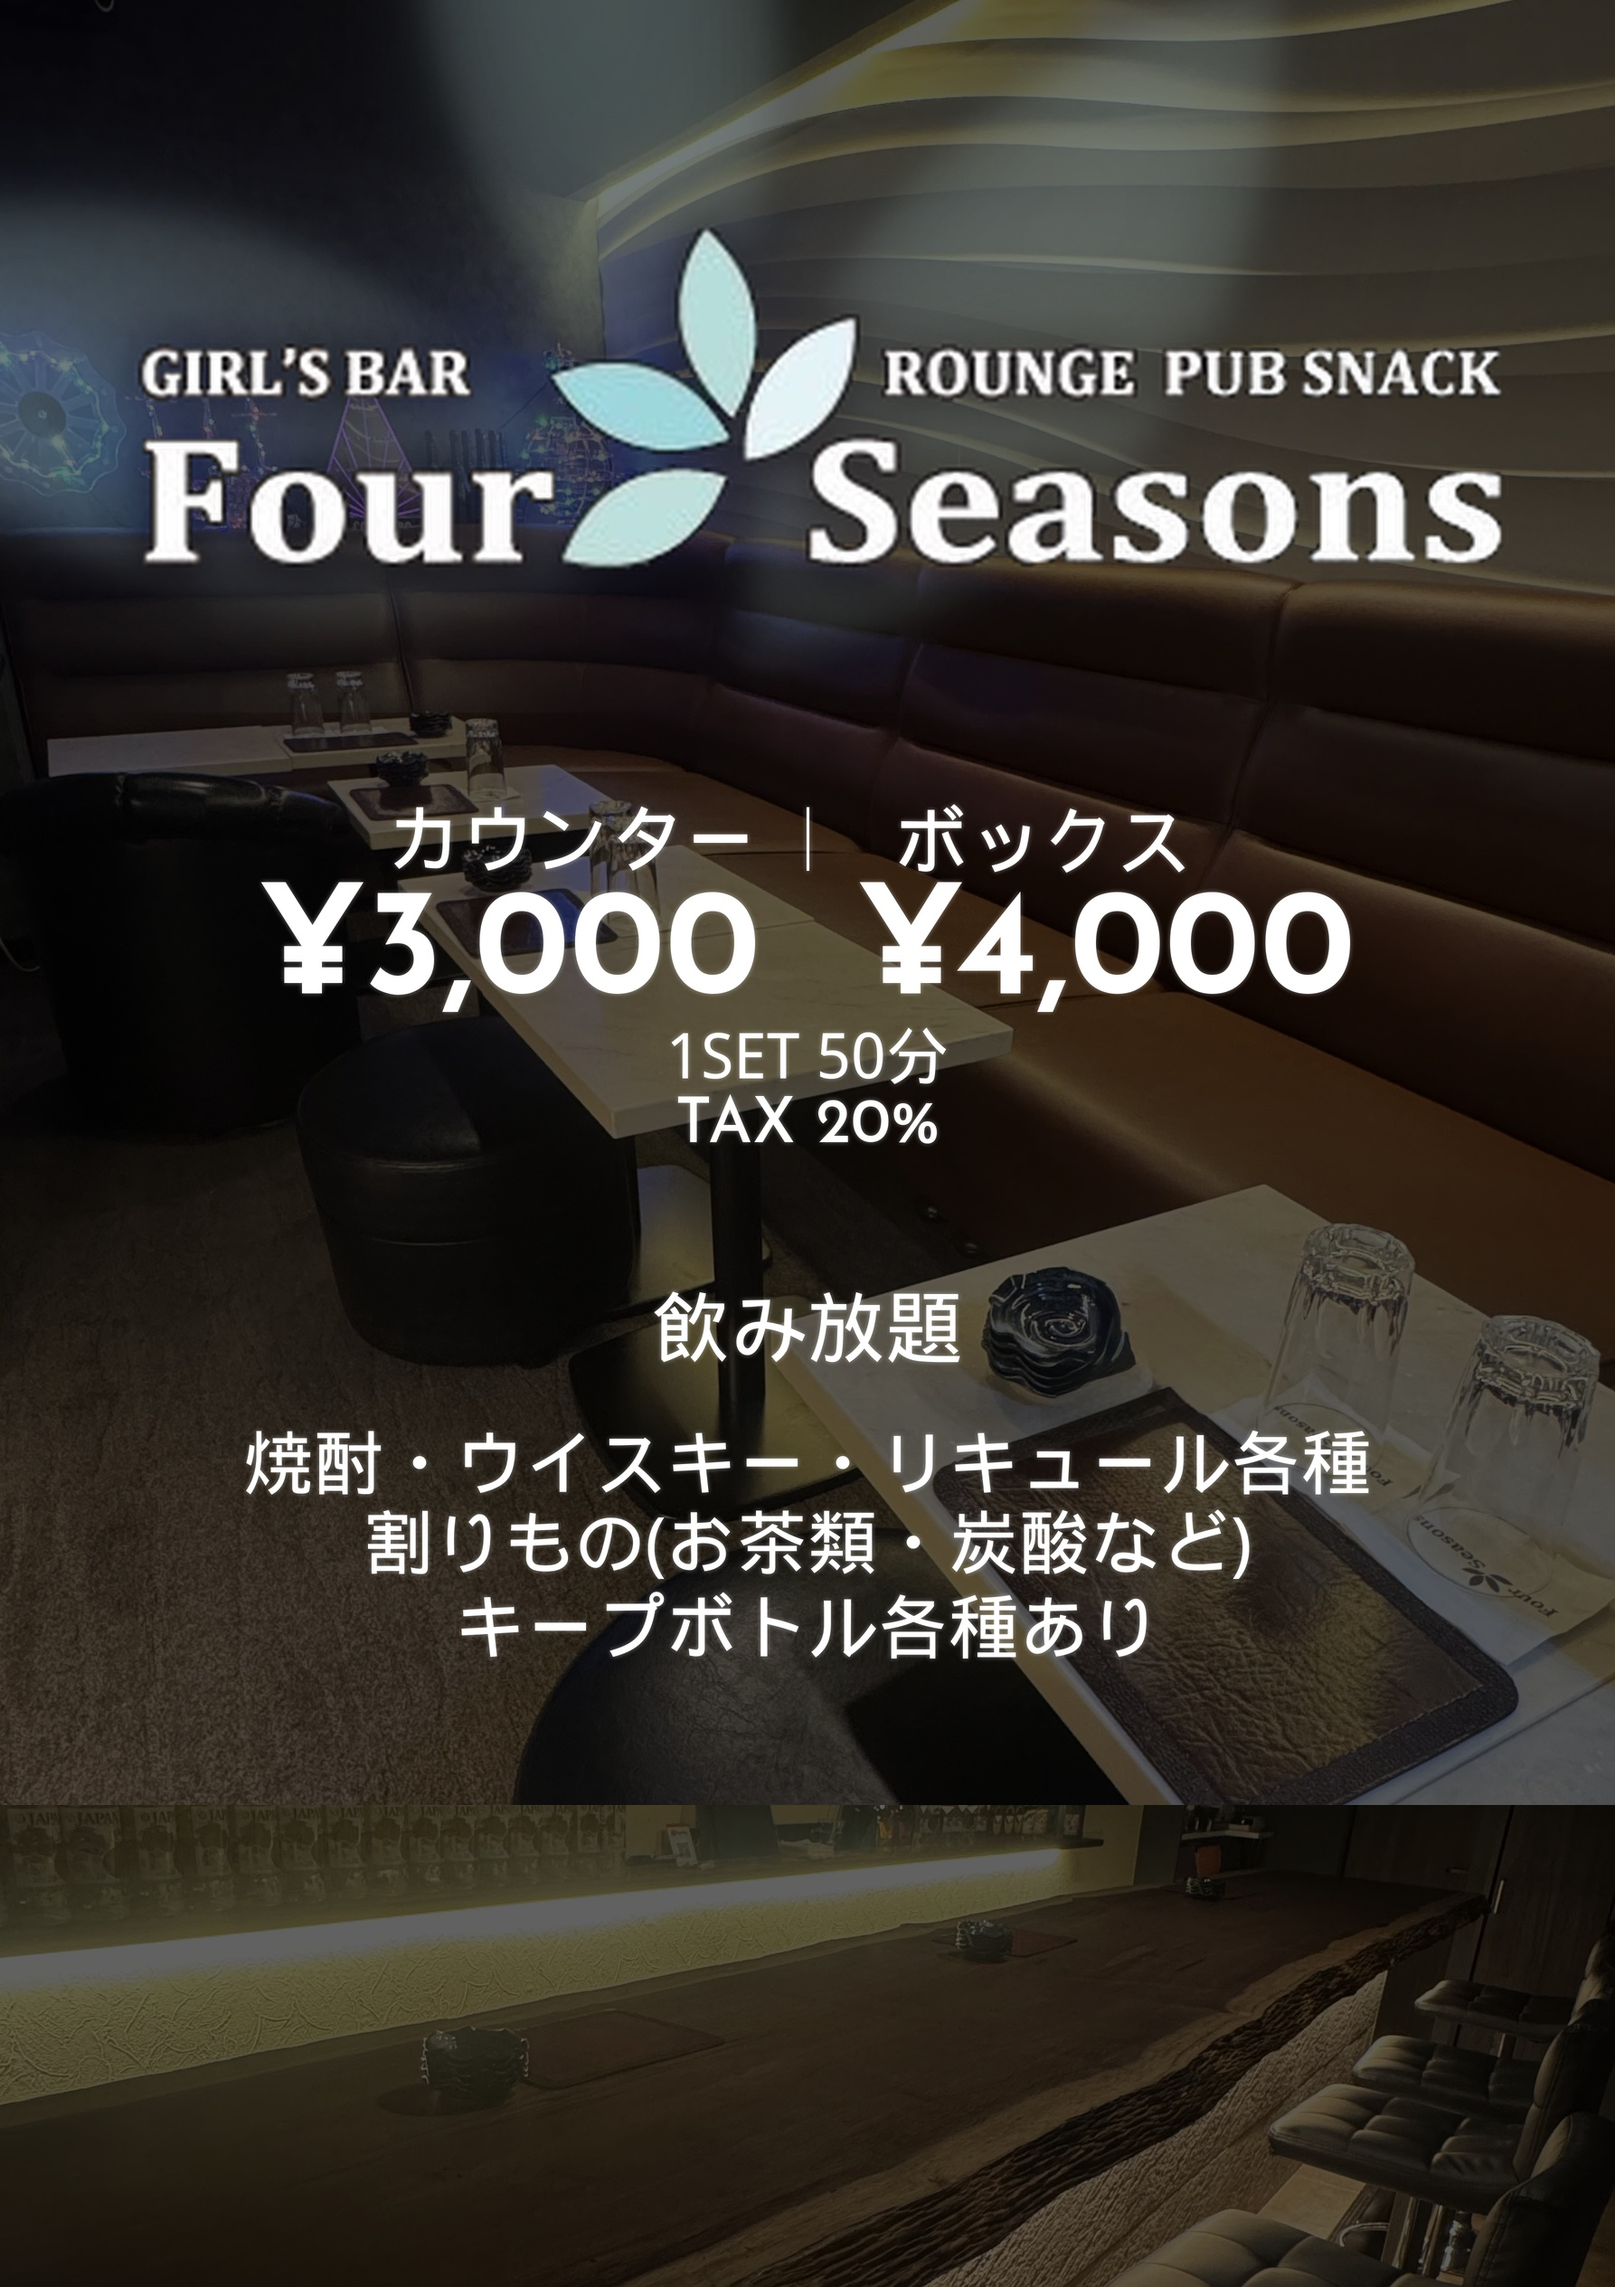
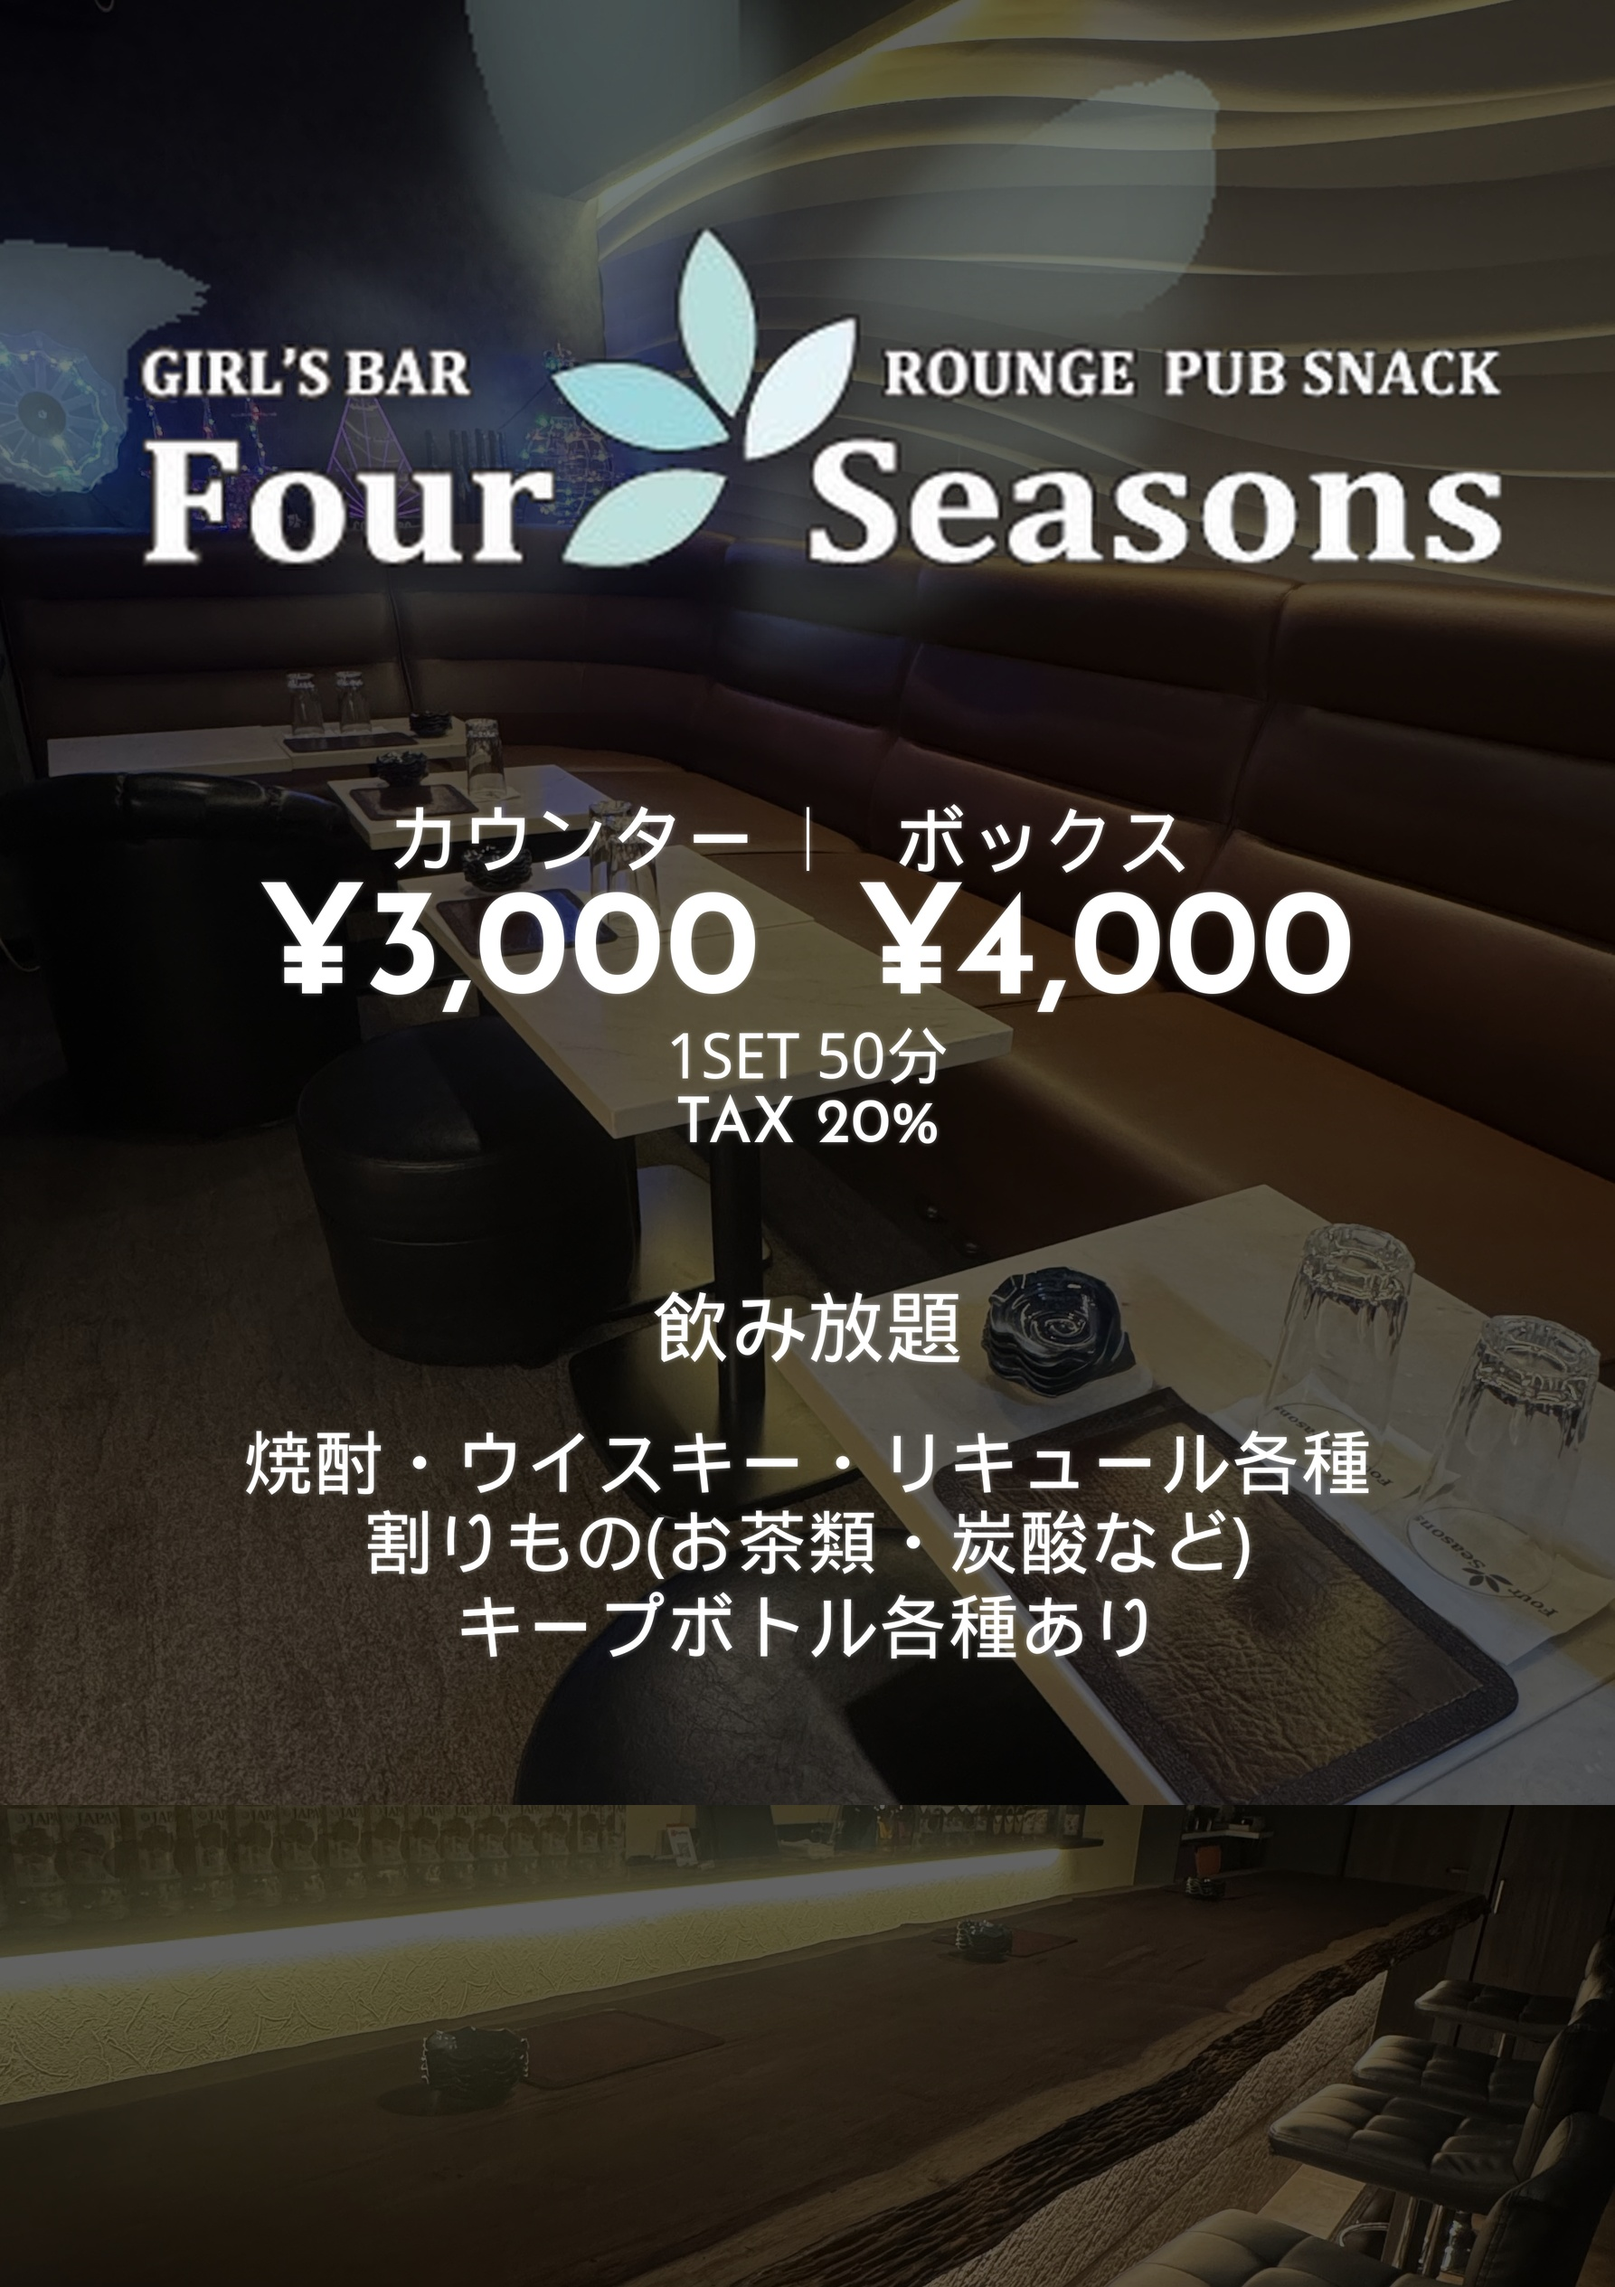
Shrink large soft petals via outer fade, keep mark exact
Make the soft 4-petal glow one size smaller with a smooth radial
falloff (no resize) so edges stay soft. Central mark and text stay
byte-identical to the source to avoid fraying.

Changed region(s): [[0.0, 0.0625, 0.2156, 0.2811], [0.6775, 0.0, 0.8007, 0.125], [0.2464, 0.0, 0.308, 0.0312]]

diff --git a/Documents/フラット/FourSeasons_interior_A1/build_signage_preview.py b/Documents/フラット/FourSeasons_interior_A1/build_signage_preview.py
@@ -38,8 +38,10 @@ LINE_GAP = 90 / 2529  # 詳細行どうし
 SOURCE_LOGO = ASSETS / "logo_four_seasons_cyan_petals_source.png"
 LOGO_ASSET = ASSETS / "logo_four_seasons_cyan_petals.png"
 MAIN_W, MAIN_H = 364, 91
-# ロゴはソースを基準。下方向のソフト花弁だけフェード（マーク／文字は無加工）
-# ※花弁の枚数・掠れを壊す縮小加工はしない
+# 大きなソフト花弁: 外側をフェードして一回り小さく見せる（リサイズしない＝掠れ・欠け防止）
+# 中央マーク／文字はソース画素で完全上書き
+SOFT_PETAL_INNER = 0.50  # ここまで不変
+SOFT_PETAL_OUTER = 0.82  # ここでソフトアルファ0
 
 
 def font(path: str, size: int, weight: int | None = None) -> ImageFont.FreeTypeFont:
@@ -86,17 +88,39 @@ def apply_black(base: Image.Image, opacity: float) -> Image.Image:
 
 
 def load_logo() -> Image.Image:
-    """ソースロゴをそのまま使う。下方向のソフト花弁だけフェードアウト。
+    """大きなソフト花弁を外側フェードで一回り小さく。マーク／文字はソース完全上書き。
 
-    中央マークと文字はソース画素を一切加工しない（掠れ・欠け防止）。
+    リサイズしないので4枚構造とソフト勾配を壊さない。
     """
     src_path = SOURCE_LOGO if SOURCE_LOGO.exists() else LOGO_ASSET
     src = Image.open(src_path).convert("RGBA")
     arr = np.array(src).astype(np.float32)
     al = arr[:, :, 3]
-    sh = src.size[1]
-
+    sw, sh = src.size
     protect = al >= 100
+
+    yy, xx = np.mgrid[0:sh, 0:sw]
+    cy, cx = (sh - 1) / 2.0, (sw - 1) / 2.0
+    # ソースソフトの実効半径に合わせる
+    soft_m = (al > 15) & (~protect)
+    if soft_m.any():
+        ys, xs = np.where(soft_m)
+        ry = max(1.0, float(np.percentile(np.abs(ys - cy), 95)))
+        rx = max(1.0, float(np.percentile(np.abs(xs - cx), 95)))
+    else:
+        ry, rx = sh * 0.45, sw * 0.45
+    dist = np.sqrt(((yy - cy) / ry) ** 2 + ((xx - cx) / rx) ** 2)
+    # inner→outer で 1→0
+    t = (dist - SOFT_PETAL_INNER) / max(1e-6, SOFT_PETAL_OUTER - SOFT_PETAL_INNER)
+    window = np.clip(1.0 - t, 0.0, 1.0)
+    # smoothstep
+    window = window * window * (3.0 - 2.0 * window)
+
+    out = arr.copy()
+    soft = ~protect
+    out[:, :, 3] = np.where(soft, al * window, al)
+
+    # 下方向フェード（本文帯）
     fade_start = int(sh * 0.55)
     fade_end = int(sh * 0.90)
     fade = np.ones(sh, np.float32)
@@ -104,12 +128,15 @@ def load_logo() -> Image.Image:
         if y >= fade_end:
             fade[y] = 0.15
         elif y >= fade_start:
-            t = (y - fade_start) / max(1, fade_end - fade_start)
-            fade[y] = 1.0 - 0.85 * t
-    arr[:, :, 3] = np.where(protect, al, al * fade[:, None])
-    out = Image.fromarray(np.clip(arr, 0, 255).astype(np.uint8), "RGBA")
-    out.save(LOGO_ASSET)
-    return out
+            u = (y - fade_start) / max(1, fade_end - fade_start)
+            fade[y] = 1.0 - 0.85 * u
+    out[:, :, 3] = np.where(protect, out[:, :, 3], out[:, :, 3] * fade[:, None])
+
+    # 念のためマーク／文字をソースで再上書き
+    out[protect] = arr[protect]
+    result = Image.fromarray(np.clip(out, 0, 255).astype(np.uint8), "RGBA")
+    result.save(LOGO_ASSET)
+    return result
 
 
 def main_bbox_in_logo(logo: Image.Image) -> tuple[int, int, int, int]:
@@ -259,7 +286,7 @@ def main() -> None:
     final.resize(CHAT, Image.Resampling.LANCZOS).save(chat_path, "JPEG", quality=92, optimize=True)
     print(f"PREVIEW ONLY: {preview_path}")
     print(
-        f"logo = source (4 soft petals + sharp mark, no shrink) "
+        f"soft petals faded to {SOFT_PETAL_OUTER} / mark+text = exact source "
         f"/ body text = font layers / logo mark unchanged"
     )
 
